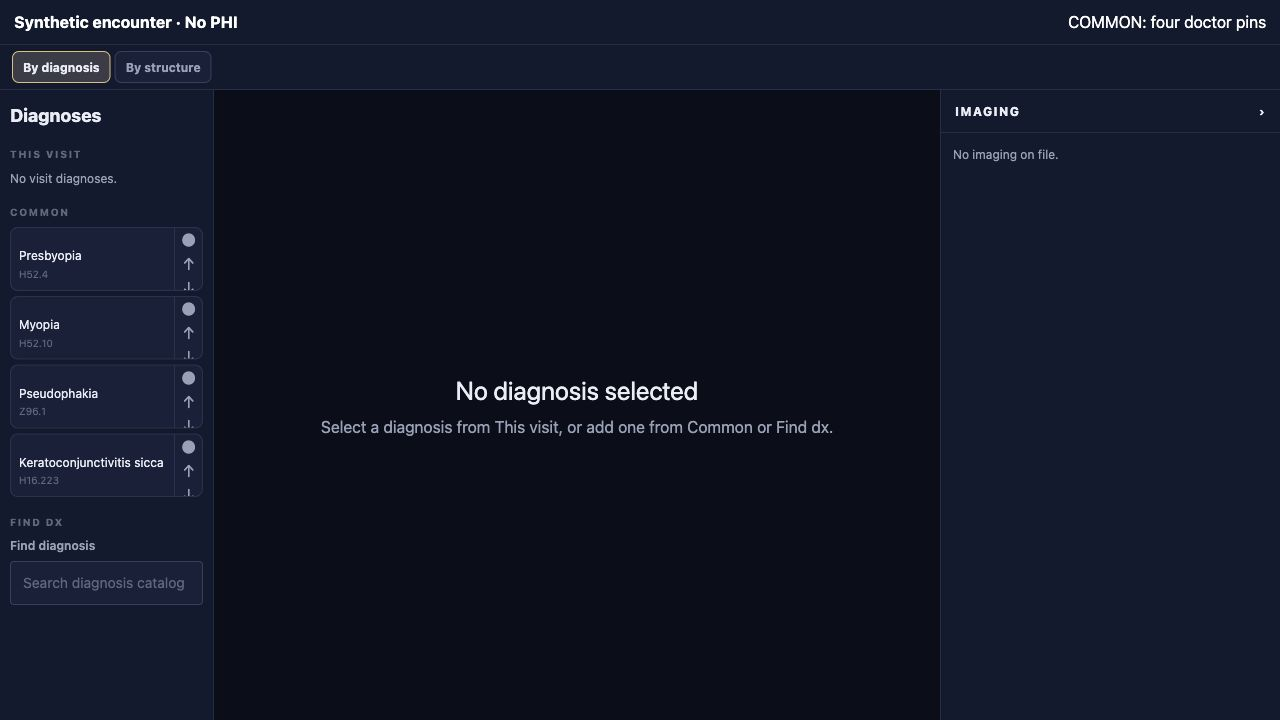
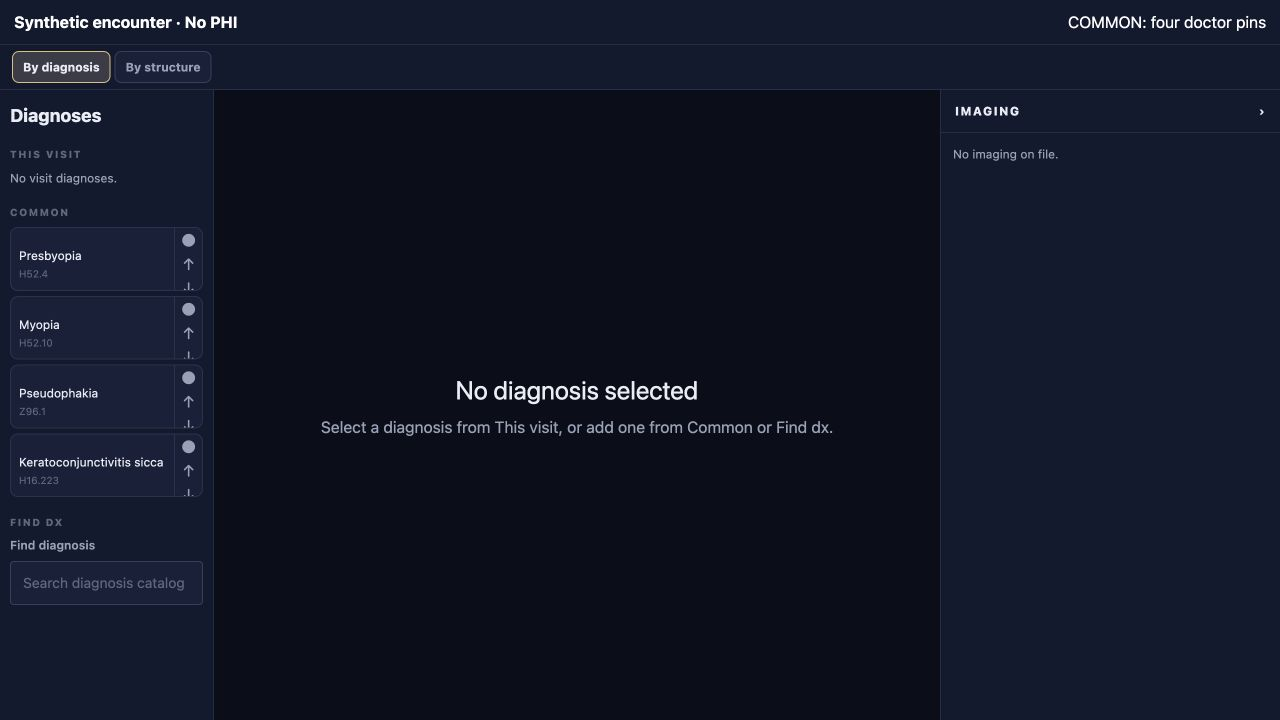
Preserve full diagnosis catalog search

diff --git a/ui/tests/diagnosisWorkspace.test.tsx b/ui/tests/diagnosisWorkspace.test.tsx
@@ -11,6 +11,7 @@ import {
 import type { Condition, Encounter } from "@medplum/fhirtypes";
 import {
   conditionMatchesDiagnosisPick,
+  DiagnosisWorkspace,
   diagnosisCatalogKey,
   diagnosisPinMoveDisabled,
   diagnosisRankActionsDisabled,
@@ -18,6 +19,7 @@ import {
   movePinnedDiagnosis,
   orderedEncounterConditions,
 } from "../src/components/charting/DiagnosisWorkspace";
+import { OdosSearchPicker } from "../src/components/inputs/OdosSearchPicker";
 import { DiagnosisImagingRegion } from "../src/components/charting/DiagnosisImagingRegion";
 import {
   DiagnosisFindingsTable,
@@ -122,6 +124,59 @@ test("diagnosis pin moves require write access and respect the ordered-list edge
   assert.equal(diagnosisPinMoveDisabled(true, undefined, 1, 3, 1), false);
   assert.equal(diagnosisPinMoveDisabled(true, undefined, 0, 3, -1), true);
   assert.equal(diagnosisPinMoveDisabled(true, undefined, 2, 3, 1), true);
+});
+
+test("Find dx searches the eligible catalog beyond bounded Common diagnoses", async () => {
+  const originalFetch = globalThis.fetch;
+  const common = diagnosisRow("myopia", "Myopia");
+  const catalogOnly = diagnosisRow("pseudophakia", "Pseudophakia");
+  globalThis.fetch = (async (input: string | URL | Request) => {
+    const url = String(input);
+    if (url.includes("/fhir/R4/Encounter/e1")) {
+      return jsonResponse({
+        resourceType: "Encounter",
+        id: "e1",
+        status: "in-progress",
+        class: { code: "AMB" },
+        diagnosis: [],
+      });
+    }
+    if (url.includes("/clinical-graph/diagnosis-quick-list")) {
+      return jsonResponse({
+        canWrite: true,
+        pinnedDiagnosisKeys: [],
+        diagnoses: [common],
+        catalog: [common, catalogOnly],
+      });
+    }
+    if (url.includes("/clinical-graph/encounters/e1/findings")) {
+      return jsonResponse({ canWrite: true, findings: [], catalog: [], unassigned: [], bySection: {}, visitDiagnoses: [] });
+    }
+    if (url.includes("/clinical-graph/imaging")) return jsonResponse({ images: [] });
+    throw new Error(`Unexpected request: ${url}`);
+  }) as typeof fetch;
+
+  let renderer!: ReactTestRenderer;
+  try {
+    await act(async () => {
+      renderer = create(
+        <DiagnosisWorkspace
+          patientReference="Patient/p1"
+          encounterReference="Encounter/e1"
+          onSelectDiagnosis={() => undefined}
+        />,
+      );
+      await Promise.resolve();
+    });
+    const results = await renderer.root.findByType(OdosSearchPicker).props.search(
+      "pseudo",
+      new AbortController().signal,
+    );
+    assert.deepEqual(results.map((row: { value: string }) => row.value), ["pseudophakia"]);
+  } finally {
+    act(() => renderer?.unmount());
+    globalThis.fetch = originalFetch;
+  }
 });
 
 test("finding rows sort charted before offered and search prioritizes selected-diagnosis candidates", () => {
@@ -310,6 +365,23 @@ function condition(id: string, display: string): Condition {
     subject: { reference: "Patient/p1" },
     code: { text: display },
   };
+}
+
+function diagnosisRow(stableKey: string, display: string) {
+  return {
+    stableKey,
+    display,
+    lateralityRequired: false,
+    pinned: false,
+    tallyCount: 0,
+  };
+}
+
+function jsonResponse(body: unknown): Response {
+  return new Response(JSON.stringify(body), {
+    status: 200,
+    headers: { "Content-Type": "application/json" },
+  });
 }
 
 function findingsPayload(): DiagnosisFindingsPayload {

diff --git a/mcp/src/clinical-graph/diagnosis-quick-list-endpoint.ts b/mcp/src/clinical-graph/diagnosis-quick-list-endpoint.ts
@@ -92,23 +92,8 @@ export function orderDiagnosisQuickList(
   diagnoses: readonly DiagnosisCatalogRow[],
   tally: DiagnosisPickTallyRow,
 ): DiagnosisQuickListRow[] {
+  const eligibleRows = diagnosisCatalogRows(diagnoses, tally);
   const pinOrder = new Map(tally.pinnedDiagnosisKeys.map((key, index) => [key, index]));
-  const totals = new Map<string, number>();
-  for (const counts of Object.values(tally.counts)) {
-    for (const [diagnosisKey, count] of Object.entries(counts)) {
-      totals.set(diagnosisKey, (totals.get(diagnosisKey) ?? 0) + count);
-    }
-  }
-  const eligibleRows = diagnoses
-    .filter((row) => row.active && row.codingStatus === "verified")
-    .map((row): DiagnosisQuickListRow => ({
-      stableKey: row.stableKey,
-      display: row.display,
-      lateralityRequired: row.lateralityRequired,
-      ...(row.icd10 ? { icd10: row.icd10 } : {}),
-      pinned: pinOrder.has(row.stableKey),
-      tallyCount: totals.get(row.stableKey) ?? 0,
-    }));
   const pinnedRows = eligibleRows
     .filter((row) => row.pinned)
     .sort((left, right) => pinOrder.get(left.stableKey)! - pinOrder.get(right.stableKey)!);
@@ -119,6 +104,29 @@ export function orderDiagnosisQuickList(
     ...pinnedRows,
     ...usageRows.slice(0, Math.max(0, COMMON_DIAGNOSIS_TARGET_COUNT - pinnedRows.length)),
   ];
+}
+
+function diagnosisCatalogRows(
+  diagnoses: readonly DiagnosisCatalogRow[],
+  tally: DiagnosisPickTallyRow,
+): DiagnosisQuickListRow[] {
+  const pinnedKeys = new Set(tally.pinnedDiagnosisKeys);
+  const totals = new Map<string, number>();
+  for (const counts of Object.values(tally.counts)) {
+    for (const [diagnosisKey, count] of Object.entries(counts)) {
+      totals.set(diagnosisKey, (totals.get(diagnosisKey) ?? 0) + count);
+    }
+  }
+  return diagnoses
+    .filter((row) => row.active && row.codingStatus === "verified")
+    .map((row): DiagnosisQuickListRow => ({
+      stableKey: row.stableKey,
+      display: row.display,
+      lateralityRequired: row.lateralityRequired,
+      ...(row.icd10 ? { icd10: row.icd10 } : {}),
+      pinned: pinnedKeys.has(row.stableKey),
+      tallyCount: totals.get(row.stableKey) ?? 0,
+    }));
 }
 
 async function diagnosisCatalog(deps: DiagnosisQuickListDeps): Promise<DiagnosisCatalogRow[]> {
@@ -136,6 +144,7 @@ function quickListResponse(
       canWrite,
       pinnedDiagnosisKeys: tally.pinnedDiagnosisKeys,
       diagnoses: orderDiagnosisQuickList(diagnoses, tally),
+      catalog: diagnosisCatalogRows(diagnoses, tally),
     },
   };
 }

diff --git a/ui/src/components/charting/DiagnosisWorkspace.tsx b/ui/src/components/charting/DiagnosisWorkspace.tsx
@@ -50,6 +50,7 @@ interface QuickListPayload {
   canWrite: boolean;
   pinnedDiagnosisKeys: string[];
   diagnoses: DiagnosisQuickListRow[];
+  catalog: DiagnosisQuickListRow[];
   error?: string;
 }
 
@@ -70,6 +71,7 @@ export function DiagnosisWorkspace({
   const [encounter, setEncounter] = useState<Encounter>();
   const [conditions, setConditions] = useState<Condition[]>([]);
   const [quickList, setQuickList] = useState<DiagnosisQuickListRow[]>([]);
+  const [catalog, setCatalog] = useState<DiagnosisQuickListRow[]>([]);
   const [pinnedDiagnosisKeys, setPinnedDiagnosisKeys] = useState<string[]>([]);
   const [canWrite, setCanWrite] = useState(false);
   const [findings, setFindings] = useState<DiagnosisFindingsPayload>();
@@ -99,6 +101,7 @@ export function DiagnosisWorkspace({
       setEncounter(nextEncounter);
       setConditions(nextConditions);
       setQuickList(quickBody.diagnoses ?? []);
+      setCatalog(quickBody.catalog ?? []);
       setPinnedDiagnosisKeys(quickBody.pinnedDiagnosisKeys ?? []);
       setCanWrite(quickBody.canWrite === true);
       setFindings(nextFindings);
@@ -201,13 +204,14 @@ export function DiagnosisWorkspace({
       const body = await response.json() as QuickListPayload;
       if (!response.ok) throw new Error(body.error ?? `Common diagnoses update failed: ${response.status}`);
       setQuickList(body.diagnoses ?? []);
+      setCatalog(body.catalog ?? []);
       setPinnedDiagnosisKeys(body.pinnedDiagnosisKeys ?? []);
     });
   }
 
   function searchDiagnoses(query: string): Promise<OdosSearchPickerOption<DiagnosisQuickListRow>[]> {
     const normalized = query.trim().toLocaleLowerCase();
-    return Promise.resolve(quickList.flatMap((row) => {
+    return Promise.resolve(catalog.flatMap((row) => {
       const code = diagnosisQuickListCode(row);
       if (!`${row.display} ${row.stableKey} ${code ?? ""}`.toLocaleLowerCase().includes(normalized)) return [];
       return [{ value: row.stableKey, label: row.display, description: code, item: row }];

diff --git a/mcp/tests/diagnosisQuickList.test.ts b/mcp/tests/diagnosisQuickList.test.ts
@@ -142,9 +142,21 @@ test("quick-list routes isolate practitioner pins and reject unknown diagnoses",
 
   const other = await handleDiagnosisQuickListRequest(deps, { authHeader: "Bearer two" });
   assert.equal(other.status, 200);
+  const otherBody = other.body as {
+    pinnedDiagnosisKeys: string[];
+    diagnoses: Array<{ stableKey: string }>;
+    catalog: Array<{ stableKey: string }>;
+  };
   assert.deepEqual(
-    (other.body as { pinnedDiagnosisKeys: string[] }).pinnedDiagnosisKeys,
+    otherBody.pinnedDiagnosisKeys,
     [],
+  );
+  assert.deepEqual(otherBody.diagnoses, []);
+  assert.deepEqual(
+    otherBody.catalog.map((row) => row.stableKey),
+    diagnoses
+      .filter((row) => row.active && row.codingStatus === "verified")
+      .map((row) => row.stableKey),
   );
 
   const rejected = await handleDiagnosisQuickListMutationRequest(deps, {
